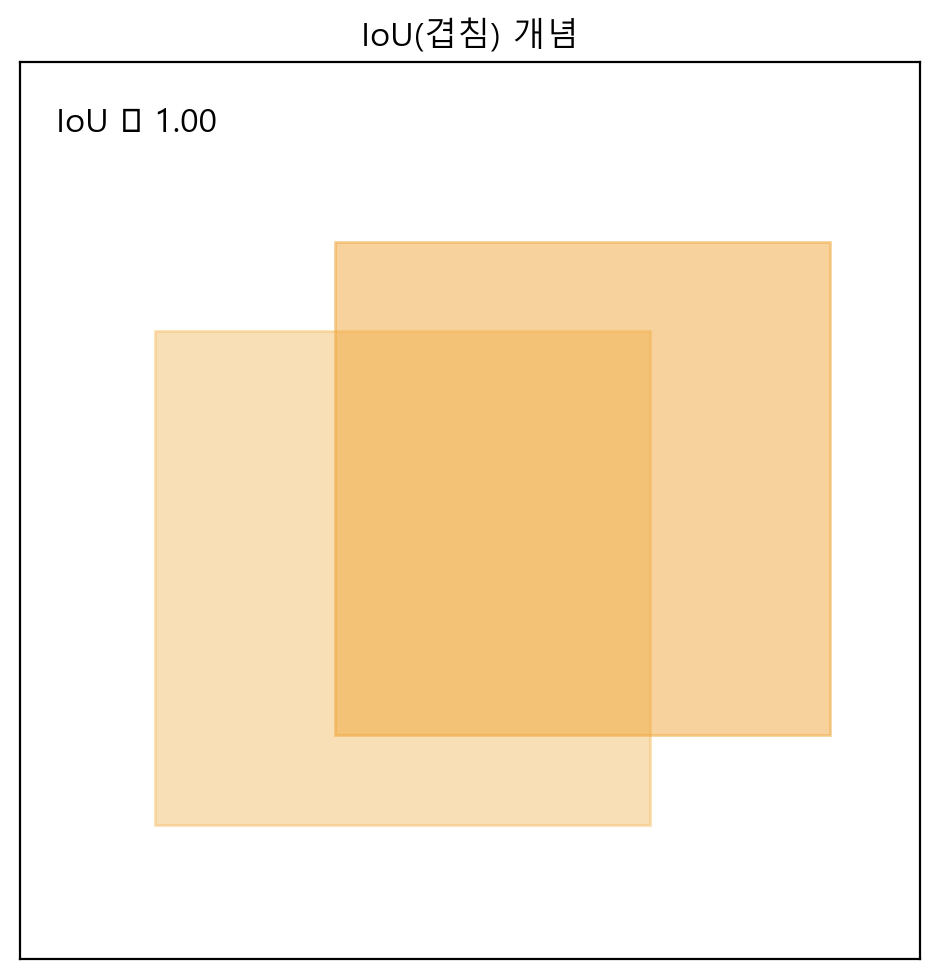
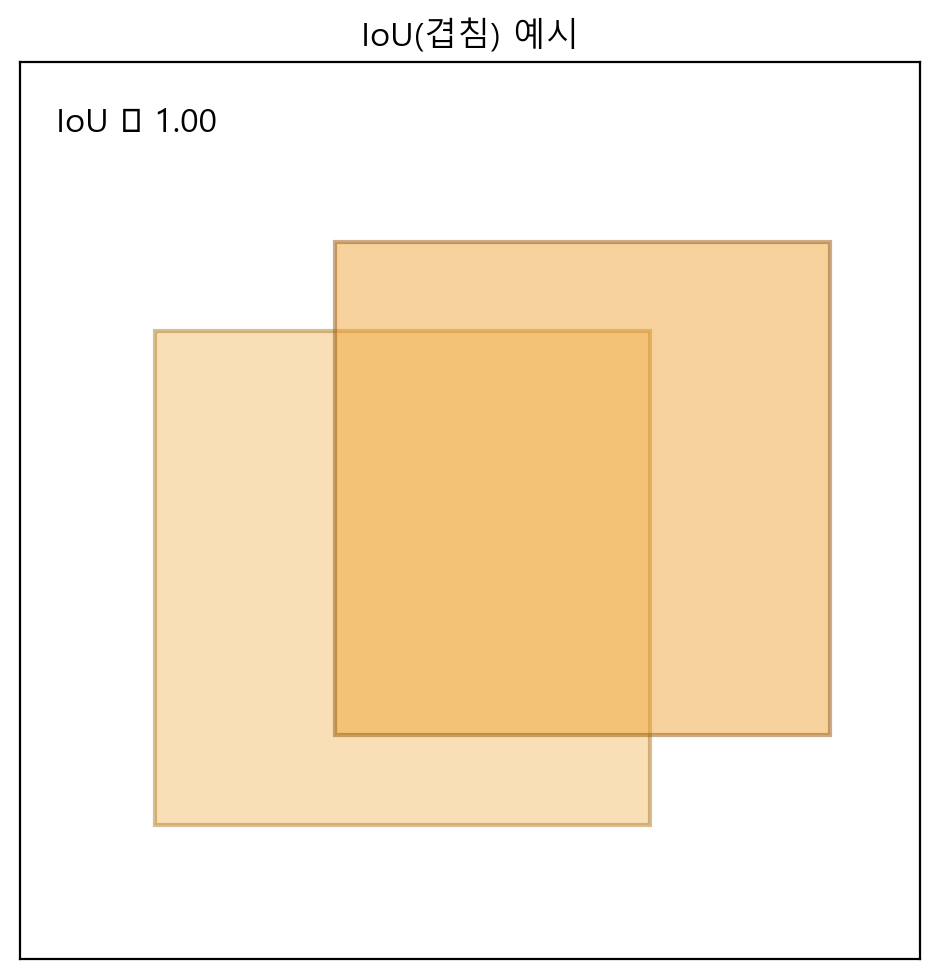
이미지 결과 수정

Changed region(s): [[0.1543, 0.2451, 0.8947, 0.858], [0.5553, 0.0, 0.617, 0.0613]]

diff --git a/polo-system/viz/templates/grammars/iou_overlap.py b/polo-system/viz/templates/grammars/iou_overlap.py
@@ -5,46 +5,44 @@ import math
 
 def _iou(a, b):
     ax, ay, aw, ah = a; bx, by, bw, bh = b
+    if aw <= 0 or ah <= 0 or bw <= 0 or bh <= 0:
+        return 0.0
     x1, y1 = max(ax, bx), max(ay, by)
     x2, y2 = min(ax+aw, bx+bw), min(ay+ah, by+bh)
-    inter = max(0, x2-x1) * max(0, y2-y1)
-    return inter / float(aw*ah + bw*bh - inter + 1e-9)
-
-def _place_B_for_iou(A, target_iou: float):
-    ax, ay, aw, ah = A
-    a = aw * ah
-    if target_iou >= 0.999:  # 완전 겹침
-        return [ax, ay, aw, ah]
-    # O = IoU*(A+B)/(1+IoU) ; A=B=a
-    inter = (2 * a * target_iou) / (1.0 + target_iou)
-    inter = max(1e-6, min(inter, a))
-    side = math.sqrt(inter)             # 정사각형 겹침 가정
-    dx = max(0.0, aw - side)
-    dy = max(0.0, ah - side)
-    bx = min(1 - aw, ax + dx)
-    by = min(1 - ah, ay + dy)
-    return [bx, by, aw, ah]
+    iw, ih = max(0.0, x2-x1), max(0.0, y2-y1)
+    inter  = iw * ih
+    union  = aw*ah + bw*bh - inter
+    if union <= 0:
+        return 0.0
+    v = inter / union
+    return max(0.0, min(1.0, v))  # 0~1 클램프
 
 def render_iou_overlap(inputs, out_path):
     A = inputs.get("A", [0.15, 0.15, 0.55, 0.55])
     B = inputs.get("B", [0.35, 0.25, 0.55, 0.55])
-    title = inputs.get("title", "IoU overlap")
-    iou_val = inputs.get("iou", None)              # 0~1 (있으면 사용)
-    show_value = bool(inputs.get("show_value", iou_val is not None))
-    show_example = bool(inputs.get("example_badge", True))
+
+    # 1) 값이 들어오면 그 값을 찍고, 없으면 A/B로 계산한 값을 찍는다
+    iou_from_input = inputs.get("iou", None)
+    iou_to_show = float(iou_from_input) if isinstance(iou_from_input, (int, float)) else _iou(A, B)
+
+    title       = inputs.get("title", "IoU overlap")
+    show_value  = bool(inputs.get("show_value", True))
+    show_badge  = bool(inputs.get("example_badge", iou_from_input is None))
 
     plt.figure(figsize=(4.8, 5.0))
     ax = plt.gca()
     ax.set_xlim(0, 1); ax.set_ylim(0, 1)
     ax.set_xticks([]); ax.set_yticks([])
 
-    ax.add_patch(Rectangle((A[0], A[1]), A[2], A[3], color="#f5c16c", alpha=0.5))
-    ax.add_patch(Rectangle((B[0], B[1]), B[2], B[3], color="#f0a63a", alpha=0.5))
+    # 둘 다 보이도록 테두리도 그려줌
+    ax.add_patch(Rectangle((A[0], A[1]), A[2], A[3], facecolor="#f5c16c", alpha=0.50,
+                           edgecolor="#b07d2a", linewidth=1.5, zorder=1))
+    ax.add_patch(Rectangle((B[0], B[1]), B[2], B[3], facecolor="#f0a63a", alpha=0.50,
+                           edgecolor="#945c13", linewidth=1.5, zorder=2))
 
-    if show_value and isinstance(iou_val, (int, float)):
-        ax.text(0.04, 0.95, f"IoU ≈ {float(iou_val):.2f}",
-                fontsize=12, ha="left", va="top")
-    elif not show_value and show_example:
+    if show_value:
+        ax.text(0.04, 0.95, f"IoU ≈ {iou_to_show:.2f}", fontsize=12, ha="left", va="top")
+    elif show_badge:
         ax.text(0.96, 0.04, "예시", fontsize=10, ha="right", va="bottom",
                 bbox=dict(boxstyle="round,pad=0.25", fc="white", ec="#999"))
 

diff --git a/polo-system/viz/templates/generic_rules.py b/polo-system/viz/templates/generic_rules.py
@@ -136,22 +136,20 @@ def build_concept_specs(text: str, spec: list, mentions: dict, numeric_cids: set
     # IoU 겹침 도식: 숫자 있으면 그 값, 없으면 '(예시)' 표시로만
     if T(r"\bIoU\b|Intersection\s*over\s*Union|겹치(는|ㅁ)"):
         iou_val = None
-        if "metric.iou" in mentions and "metric.iou" in numeric_cids:
-            iou_val = list(mentions["metric.iou"].values())[0]
-        elif "metric.miou" in mentions and "metric.miou" in numeric_cids:
-            iou_val = list(mentions["metric.miou"].values())[0]
+        for key in ("metric.iou", "metric.miou"):
+            if key in mentions and mentions[key]:
+                # mentions[...]는 0~1 정규화 값. 첫 값만 사용
+                iou_val = float(list(mentions[key].values())[0])
+                break
 
+        inputs = {}
         if iou_val is not None:
-            title_en, title_ko = "IoU concept", "IoU(겹침) 개념"
-            iou_to_use = round(float(iou_val), 2)
-        else:
-            title_en, title_ko = "IoU concept (example)", "IoU(겹침) 개념 (예시)"
-            iou_to_use = 0.35  # 안정적인 예시값
+            inputs["iou"] = round(iou_val, 2)  # 숫자 있을 때만 명시적으로 전달
 
         spec.append({
             "id": "iou_overlap_demo",
             "type": "iou_overlap",
-            "labels": _label(title_en, title_ko),
-            "inputs": {"iou": iou_to_use}
+            "labels": _label("IoU concept", "IoU(겹침) 예시"),
+            "inputs": inputs
         })
     return spec
